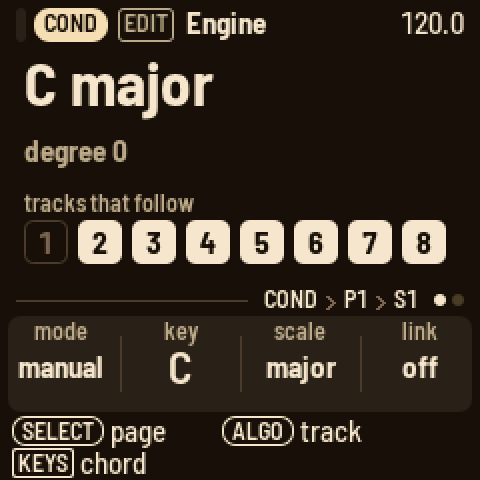
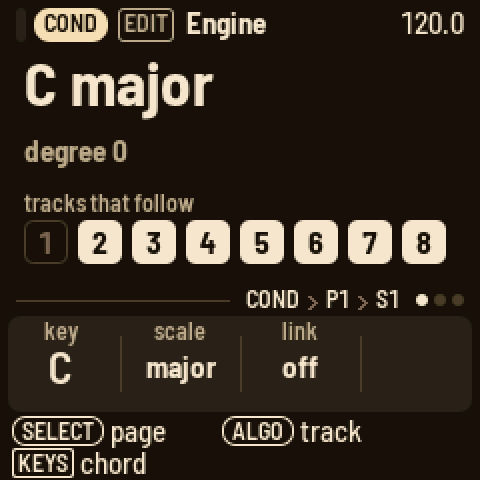
LOOM-8 manual: a pass (the engines' names and knobs as they are, the conductor's Follow and the new band in the quick start, cheat sheet and page tables), its screens again (the conductor, Follow, a trick)
Claude-Session: https://claude.ai/code/session_01K5kVNoMe7rcVfedgLAxrj3

Changed region(s): [[0.5, 0.5938, 0.9375, 0.8125], [0.0312, 0.6562, 0.2188, 0.8125], [0.2812, 0.6562, 0.4688, 0.8125]]

diff --git a/docs/MANUAL.md b/docs/MANUAL.md
@@ -34,7 +34,7 @@ to 16 from the left, black keys 1 to 11.
    13. Press black key 3 for the hat and press every other white key. Press **PLAY**.
 
    <img src="img/screen-beat-playing.png" width="240" alt="Steps on T1 kit, playing: kick on 1, 5, 9 and 13, snare on 5 and 13, hats between; a tick for every sound on a step, the playhead lit" title="The beat playing">
-2. **A bass line.** Turn **ALGORITHM** to T2 stack. On the Steps page, hold **SEQ** and play a low note:
+2. **A bass line.** Turn **ALGORITHM** to T2, the bass. On the Steps page, hold **SEQ** and play a low note:
    the keys are a keyboard while **SEQ** is down, and the note is remembered. Let go and press white keys 1, 4,
    7 and 11. Hold **SEQ**, play another note, let go and press white key 14. Or tap **REC** and play the
    notes one after another: each one goes on the next step. Press **EDIT** and turn **KNOB 1** while it plays
@@ -54,12 +54,13 @@ to 16 from the left, black keys 1 to 11.
    chords.
 
    <img src="img/screen-chords.png" width="240" alt="Steps on T3: a C chord on step 1 and a D minor on step 9, each named in its cell, with a bar under the steps they last" title="Two chords">
-5. **The conductor.** Turn **ALGORITHM** to COND (the conductor). Press **EDIT**: the key is C major and T2 and T3 follow.
-   Play an F, then a G, then a C while it plays: everything moves with you, in the scale. Press **SEQ**, turn
-   **SELECT** for the Bar page and press black key 4 so a step is a beat. Back on Steps, hold **SEQ** and play
-   a chord, let go and press a step, and so on: four steps are a bar of progression.
+5. **The conductor.** Turn **ALGORITHM** to COND (the conductor). Press **EDIT**: the key is C major and every
+   melodic track follows. Play an F, then a G, then a C while it plays: everything moves with you, in the scale.
+   Press **SEQ**, turn **SELECT** for the Bar page and press black key 4 so a step is a beat. Back on Steps, hold
+   **SEQ** and play a chord, let go and press a step, and so on: four steps are a bar of progression. Or let
+   T3's chords lead: **EDIT**, turn **SELECT** to Follow and press black key 3.
 
-   <img src="img/screen-conductor.png" width="240" alt="The conductor&#x27;s Engine page: C major, degree 0, the tracks that follow lit; knobs key, scale, link" title="The conductor">
+   <img src="img/screen-conductor.png" width="240" alt="The conductor&#x27;s Engine page: C major, degree 0, the tracks that follow lit; knobs key, scale, link" title="The conductor"> <img src="img/screen-conductor-follow.png" width="240" alt="The conductor&#x27;s Follow page: chords from T3, its box in its colour among the tracks that follow; T3&#x27;s lowest note sets the chord" title="Chords from a track">
 6. **Throws.** Press **FX** and turn **SELECT** to its last page, Throws. Hold a low key: F3 mutes the
    drums, G3 stutters them, A3 repeats, B3 echoes, C4 builds, D4 plays four on the floor, E4 jumbles them. A
    high key does the same on the melodic tracks. Let go and the pattern comes back.
@@ -91,10 +92,12 @@ knob on it; press **ARP** on T2 and turn **KNOB 1** to arp; press **GLO**, turn 
 - **Lock**: a knob value a step sets as it plays.
 - **Scene** (S1 to S16): which pattern each track plays, plus the mutes and the conductor's key.
 - **Song**: a chain of scenes, each played for a number of bars.
-- **Engine**: the way a track makes its sound. Eight synths and the kit, a drum synth.
+- **Engine**: the way a track makes its sound. Twelve synths, two for samples (sample and slice) and the kit, a
+  drum synth.
 - **Preset**: a sound to load. 224 come with LOOM-8, sixteen for each engine, and 16 are yours.
 - **Player**: what the keys do on a track: arp, strum or hold.
-- **Conductor**: the aux track that moves the other tracks through a key and scale.
+- **Conductor**: the aux track that moves the other tracks through a key and scale, from its own chords or from
+  a track's notes.
 - **Throw**: a momentary effect on the drums or the melodic tracks, from a key on FX's Throws page.
 - **Weave**: a track's pattern crossed with another, live: bars or steps in turn, or one's rhythm with the other's notes.
   Set up on the track's ARP, played on the WEAVE track.
@@ -151,6 +154,8 @@ press…" means keep **HOME** down while you press the next thing.
 | make the whole mix pump with the kick | Press **GLO**, turn **SELECT** to Master out and turn **KNOB 4** (pump). **SEL** picks what drives it and how fast it swells back. |
 | solo a track | On Mix, hold its black key. Let go, and the mutes come back. |
 | play a progression | Turn **ALGORITHM** to COND (the conductor). Press **EDIT** and play a chord: it moves the tracks that follow. Press **SEQ** and press a step: the chord goes on it. Set the scale to 4 on the Bar page so a step is a beat. |
+| let a track lead the chords | On COND, press **EDIT** and turn **SELECT** to Follow. Press the track's black key: its lowest note sets the chord for the others (a chord part or a bass line). The same key again: off. |
+| get new sounds for the band | Press **HOME**, press **SEL** and pick RANDOMIZE PRESETS: T2 to T8 each get a random preset of their part. **SEL** says yes. |
 | save | LOOM-8 saves by itself when stopped and quiet. **SAVE** saves at once; hold **SAVE** and press white key 1 to 3 to save to that slot. |
 | name a project | Press **HOME**, press **SEL**, pick RENAME and type on the keys (**OCT−** capitals, **OCT+** digits). **SEL** keeps it. |
 | keep a sound | On a sound page, hold **SAVE** and press a white key. The sound becomes that user preset. |
@@ -165,7 +170,7 @@ press…" means keep **HOME** down while you press the next thing.
 | **SEL** | Opens a list of this page's settings and actions. With a step held, its notes. When LOOM-8 asks a question, **SEL** means yes. |
 | **HOME** | Opens Arrange. On Arrange, it opens the Song page. Held, it is the shift key for buttons and knobs: undo and redo, the fine tempo, the scenes on **PRESETS**. When LOOM-8 asks a question, **HOME** means no. |
 | **SEQ** | Opens Steps. Its page 2 is Bar. Hold it on Steps and the keys play the track and set what a step writes. |
-| **EDIT** | Opens Engine. Its page 2 is Play; on a drum track, the key's model, random, pan and volume. Brocade has a page 3, Sub. |
+| **EDIT** | Opens Engine. Its page 2 is Play; on a drum track, the key's model, random, pan and volume. Brocade has a page 3, Sub; the conductor's pages are its key, the routing and Follow. |
 | **ENV** | Opens Envelope (a drum track: lag, attack, random, length), then Filter, then the filter's envelope. |
 | **FX** | Opens Character, the track's own effect. Then Sends, the track's sends to FX I and FX II. Then FX I and FX II, the two effects. |
 | **LFO** | Opens LFO. Its page 2 has the type's fourth and fifth knobs. |
@@ -407,18 +412,18 @@ through keys, plucks and bells to pads, and end with the ones that move. Most ar
 bells send to the reverb, and some plucks and leads to the delay. Press **SEL** for the list: ENGINE changes the engine and loads its first sound, then a preset,
 SCRAMBLE for a random sound, SAVE AS PRESET, RESET SOUND, and whether the track FOLLOWS CONDUCTOR.
 
-<img src="img/screen-engine.png" width="240" alt="Engine on T2: stack, its picture, the preset name, and its four knobs shape, ratio, detune, stereo from 00 to 99" title="The Engine page"> <img src="img/screen-play.png" width="240" alt="Play: voice mode, portamento, bend range and volume" title="The Play page">
+<img src="img/screen-engine.png" width="240" alt="Engine on T2: stack, its picture, the preset name, and its four knobs wave, ratio, detune, spread from 00 to 99" title="The Engine page"> <img src="img/screen-play.png" width="240" alt="Play: voice mode, portamento, bend range and volume" title="The Play page">
 
 | Engine | Knobs |
 | --- | --- |
-| simple | shape, pw, noise, stereo |
-| stack | shape, ratio, detune, stereo |
-| wavetable | table, position, warp, drift |
-| orbit | tone, ratio, shape, tremolo |
-| epiano | tone, texture, punch, tine |
-| organ | type, bass, tremolo, speed |
-| sync | freq, sub, noise, lowcut |
-| swarm | swarm, am, fm, detune |
+| weft | bend, wave, sweep, spread |
+| stack | wave, ratio, detune, spread |
+| wavetable | table, scan, bend, ripple |
+| orbit | bright, ratio, edge, wobble |
+| tines | bright, grit, bite, bell |
+| organ | stops, pedal, rotor, rate |
+| sync | reach, sub, hiss, thin |
+| swarm | swarm, ring, tone, spread |
 | brocade | saws, detune, mix, spread |
 | cane | model, timbre, color, damp |
 | voile | model, timbre, color, breath |
@@ -871,7 +876,7 @@ On a sound page, hold **SAVE** and press white key 1 to 16 to keep the track's s
 
 | Button | Page | KNOB 1 | KNOB 2 | KNOB 3 | KNOB 4 | Keys |
 | --- | --- | --- | --- | --- | --- | --- |
-| HOME | Arrange | tempo | groove | amount | click | white: scenes, black: mutes; SEL: load or new project, when scenes switch |
+| HOME | Arrange | tempo | groove | amount | click | white: scenes, black: mutes; SEL: load, save to, rename, new project, randomize presets, the song, when scenes switch |
 | HOME, SELECT | Song | slot | scene | bars | at end | white: add a scene |
 | SEQ | Steps | pattern | length | scale | groove | white: steps, black: sound (drums); SEQ held: a keyboard |
 | SEQ, a step held | Steps | velocity | length | chance | pitch | white: length, black: sounds |
@@ -879,6 +884,7 @@ On a sound page, hold **SAVE** and press white key 1 to 16 to keep the track's s
 | SEQ, SELECT | Bar | quant | note | groove | shape | black: scale |
 | EDIT | Engine | the engine's four | | | | play |
 | EDIT, SELECT | Play | mode | porta | bend | volume | play |
+| EDIT, SELECT twice (brocade) | Sub | sub | offset | | | play |
 | EDIT, drum track | Engine, Key | the key's knobs; model, random, pan, volume | | | | black: the key |
 | ENV | Envelope | attack | decay | sustain | release | play |
 | ENV, SELECT | Filter | cutoff | reso | env | keytrack | play; PRESETS: the type |
@@ -901,9 +907,9 @@ On a sound page, hold **SAVE** and press white key 1 to 16 to keep the track's s
 | GLO, SELECT | Master out | drums | melodic | comp | pump | SEL: pump by, release, accent, level |
 | GLO, SELECT | Setup | lights | clock | notes | theme | SEL: USB audio |
 
-The aux tracks' Engine page: COND has key, scale and link, page 2 the routing and page 3 Follow; THROW has latch;
-FX I and FX II have the effect's four knobs, and on page 2 hp, lp
-and the send to FX II.
+The aux tracks' **EDIT** pages: COND has key, scale and link, page 2 the routing (black keys toggle a track) and
+page 3 Follow (**KNOB 1**, or a black key: the track the chords come from); THROW has latch; WEAVE has latch; FX I
+and FX II have the effect's four knobs, and on page 2 hp, lp and the send to FX II.
 
 ## Screen reader
 
